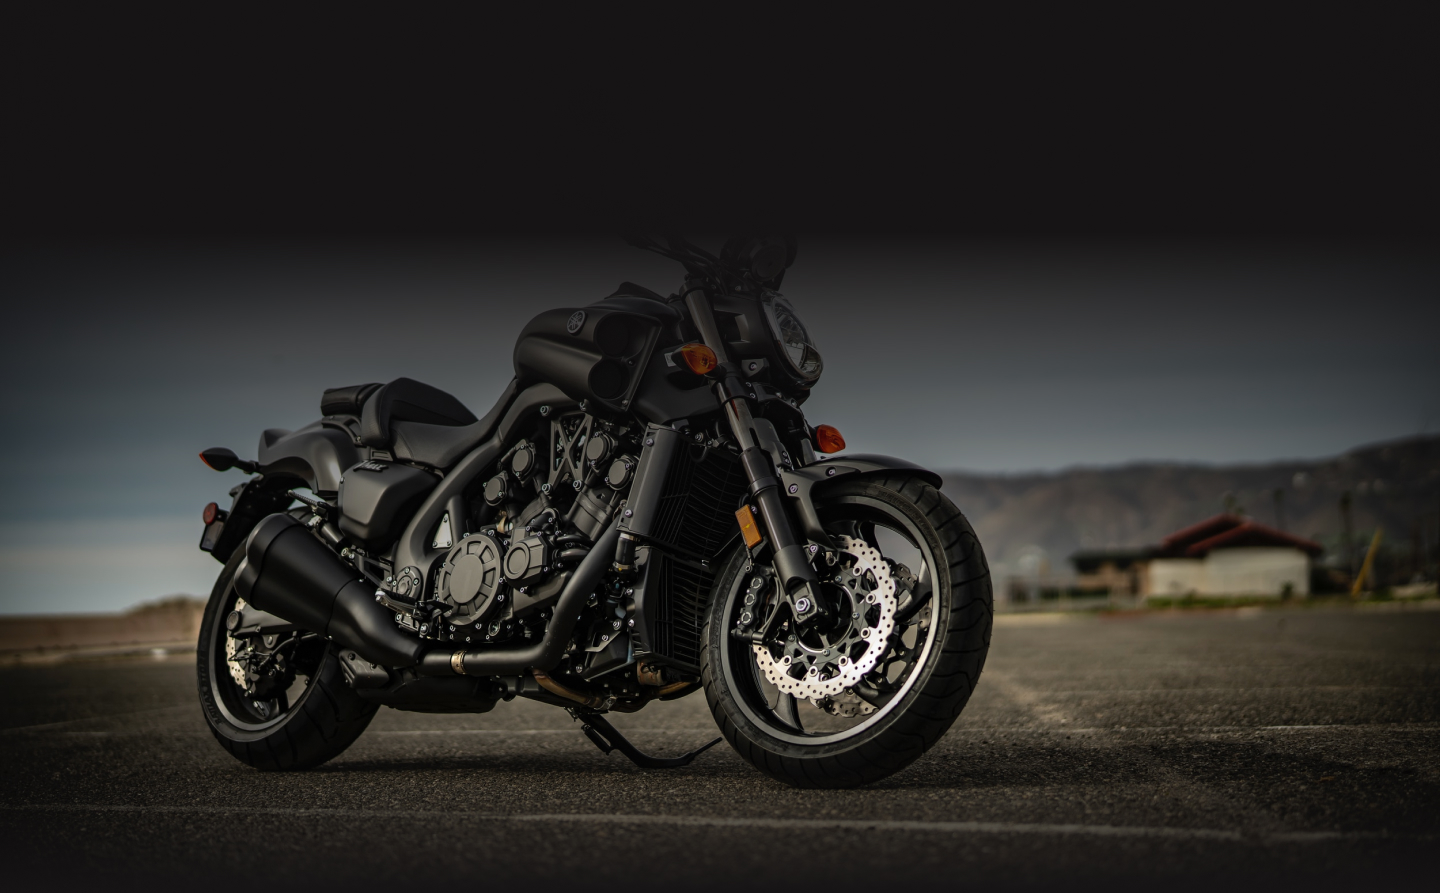
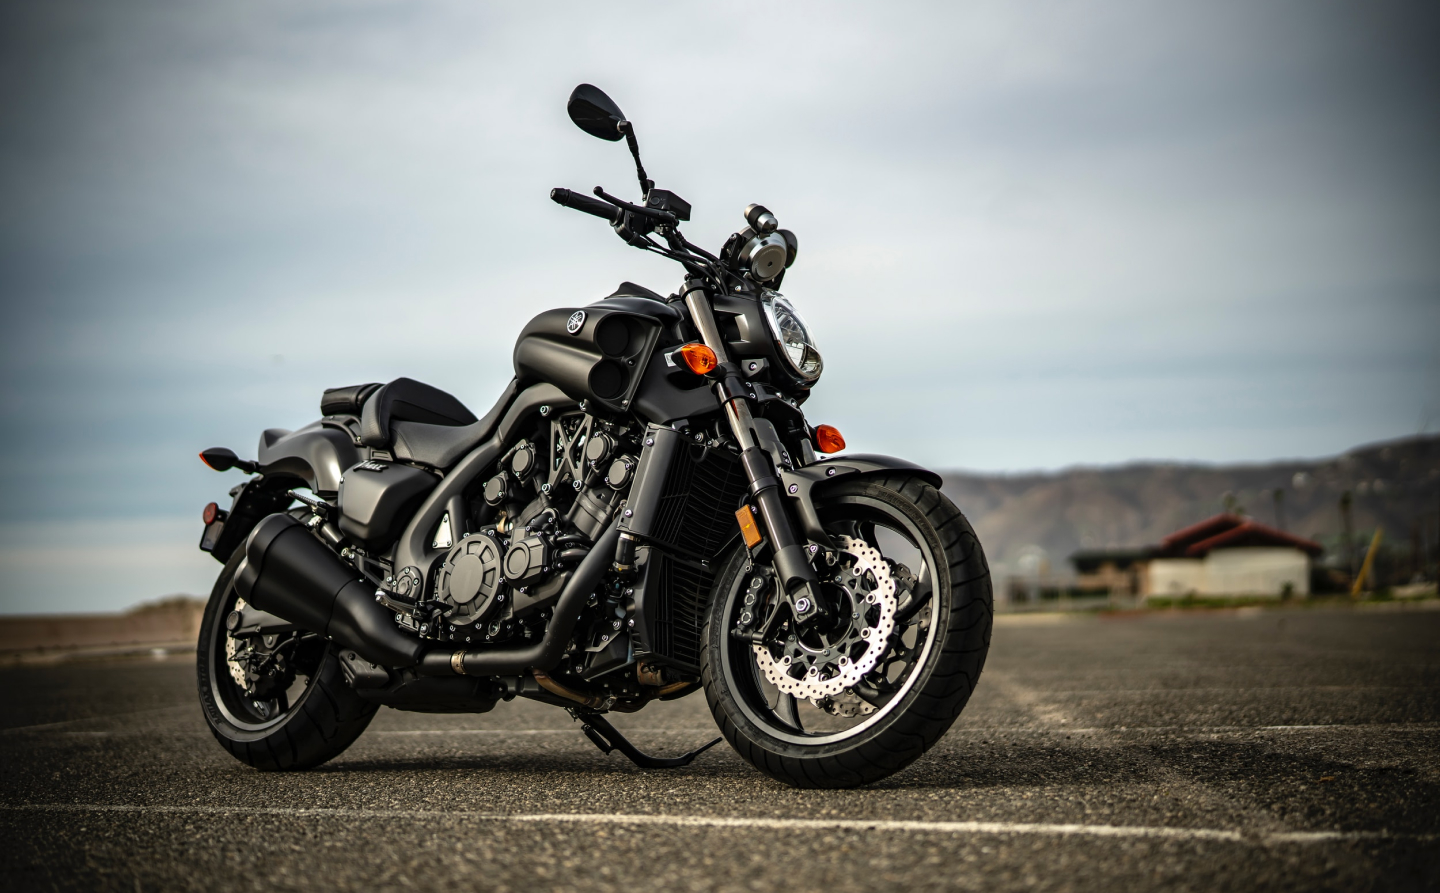
Commit

diff --git a/index.html b/index.html
@@ -7,11 +7,11 @@
     <meta name="viewport" content="width=device-width, initial-scale=1.0">
     <title>Coyote Motoschool</title>
 
-    <!-- Bootstrap cdn -->
+    <!-- Bootstrap css (using for grid only) -->
     <link rel="stylesheet" href="https://cdn.jsdelivr.net/npm/bootstrap@5.1.3/dist/css/bootstrap.min.css"
         integrity="sha384-1BmE4kWBq78iYhFldvKuhfTAU6auU8tT94WrHftjDbrCEXSU1oBoqyl2QvZ6jIW3" crossorigin="anonymous">
 
-    <!-- Google Fonts -->
+    <!-- Google Fonts - Lato, Inter, Oswald, Outifit, Stick No Bills-->
     <link rel="preconnect" href="https://fonts.googleapis.com">
     <link rel="preconnect" href="https://fonts.gstatic.com" crossorigin>
     <link

diff --git a/assets/css/index.css b/assets/css/index.css
@@ -56,7 +56,7 @@ button.enroll {
     width: 100%;
     height: 100%;
     z-index: 1;
-    background-image: linear-gradient(180deg, #161415 25.96%, rgba(0, 0, 0, 0) 74.01%, #161415 100%), url('../img/bg1.jpg');
+    background-image: linear-gradient(180deg, #161415 25.96%, rgba(0, 0, 0, 0) 74.01%, #161415 100%), url('../img/bg.jpg');
     background-size: cover;
     overflow: hidden;
 }
